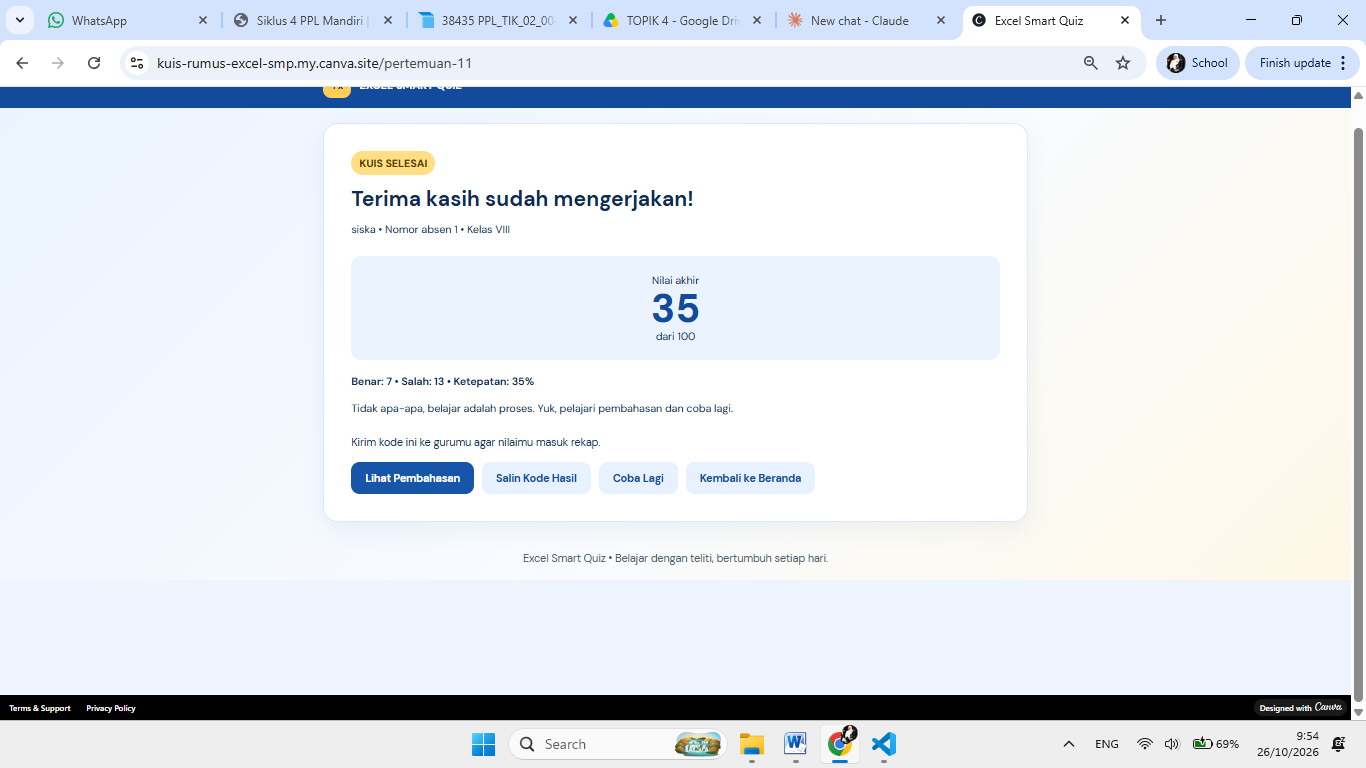
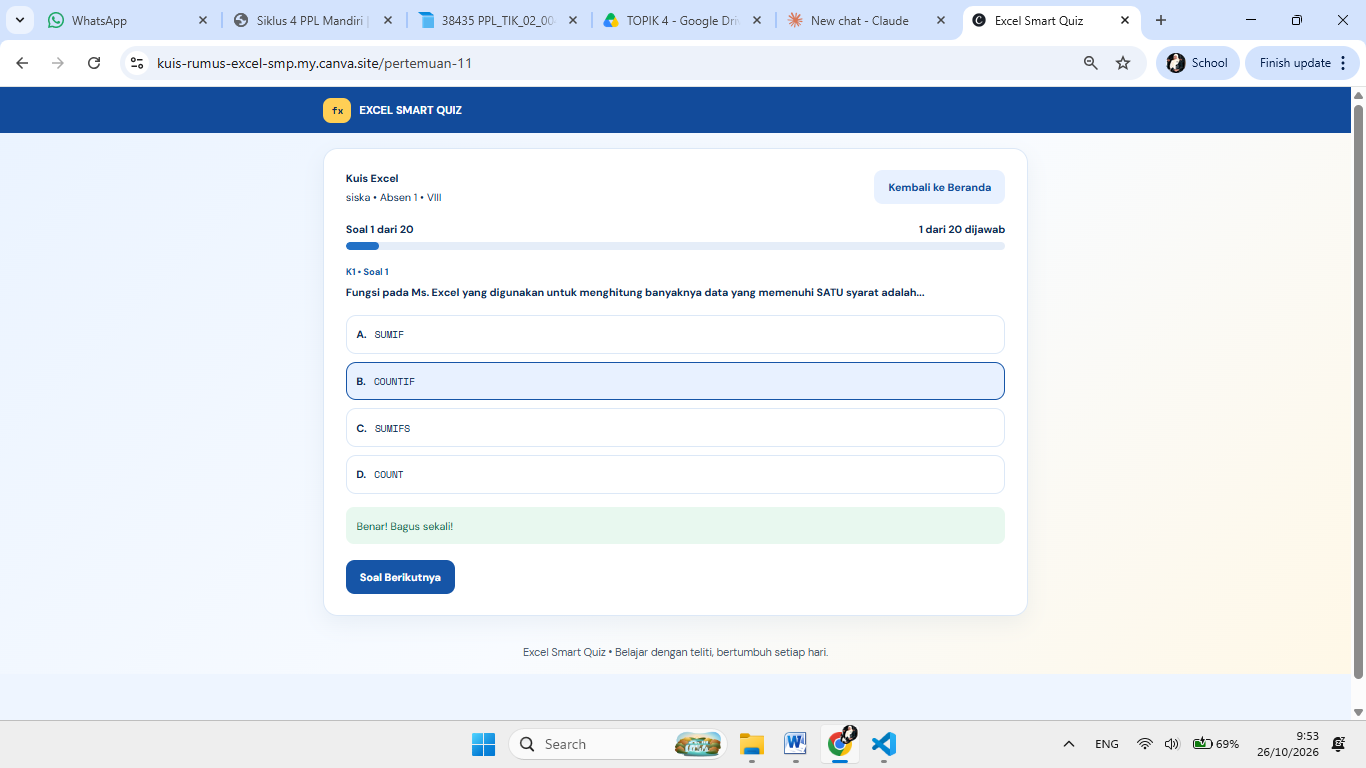
rev 27 okt

diff --git a/inovasi-pembelajaran.html b/inovasi-pembelajaran.html
@@ -6,9 +6,9 @@
     <meta name="viewport" content="width=device-width, initial-scale=1.0">
     <meta
         name="description"
-        content="Inovasi pembelajaran Excel Smart Quiz karya Siska Yulia Rahmawati untuk pembelajaran Informatika kelas VIII.">
+        content="Inovasi pembelajaran Excel Smart Quiz (Kuis Interaktif Excel Berbasis Canva Site Terintegrasi AI) karya Siska Yulia Rahmawati untuk pembelajaran Informatika kelas VIII.">
     <meta name="author" content="Siska Yulia Rahmawati">
-    <title>Inovasi Pembelajaran | Excel Smart Quiz</title>
+    <title>Inovasi Pembelajaran | Excel Smart Quiz (Kuis Interaktif Excel Berbasis Canva Site Terintegrasi AI)</title>
     <link rel="stylesheet" href="assets/css/style.css">
 </head>
 
@@ -42,8 +42,11 @@
         <div class="page-hero-content">
             <p class="eyebrow">INOVASI PEMBELAJARAN • INFORMATIKA</p>
             <h1>Excel Smart Quiz</h1>
+            <p class="hero-subtitle" style="font-size: clamp(16px, 2.2vw, 22px); font-weight: 600; color: var(--um-yellow); margin: -5px 0 15px;">
+                Kuis Interaktif Excel Berbasis Canva Site Terintegrasi AI
+            </p>
             <p>
-                Excel Smart Quiz merupakan media kuis interaktif berbantuan Canva AI yang dikembangkan melalui Canva Site untuk pembelajaran Informatika materi Microsoft Excel kelas VIII SMP. Media ini dilengkapi 20 soal pilihan ganda, umpan balik langsung, pembahasan beserta rumus Excel, fitur coba lagi, serta rekap dan analisis nilai untuk guru. Murid dapat mengerjakan kuis, memahami kesalahan, dan memperbaiki jawaban, sedangkan guru dapat memanfaatkan hasilnya untuk mengevaluasi pemahaman murid dan menentukan materi yang perlu diperkuat.
+                <strong>Excel Smart Quiz (Kuis Interaktif Excel Berbasis Canva Site Terintegrasi AI)</strong> merupakan media kuis interaktif berbantuan AI yang dikembangkan melalui Canva Site untuk pembelajaran Informatika materi Microsoft Excel kelas VIII SMP. Media ini dilengkapi 20 soal pilihan ganda, umpan balik langsung, pembahasan beserta rumus Excel, fitur coba lagi, serta rekap dan analisis nilai untuk guru. Murid dapat mengerjakan kuis, memahami kesalahan, dan memperbaiki jawaban, sedangkan guru dapat memanfaatkan hasilnya untuk mengevaluasi pemahaman murid dan menentukan materi yang perlu diperkuat.
             </p>
             <div class="innovation-hero-tags" aria-label="Ringkasan inovasi">
                 <span>🧑🎓 Sasaran: Murid Kelas VIII SMP</span>
@@ -66,14 +69,21 @@
             <div class="innovation-identity-heading">
                 <span class="semester-icon" aria-hidden="true">📋</span>
                 <div>
-                    <p class="eyebrow">IDENTITAS INOVASI</p>
+                    <p class="eyebrow">IDENTITAS INOVASI • LK 4</p>
                     <h3>Excel Smart Quiz</h3>
+                    <p style="color: var(--text-soft); font-size: 15px; margin: 4px 0 0; font-weight: 600;">
+                        Kuis Interaktif Excel Berbasis Canva Site Terintegrasi AI
+                    </p>
                 </div>
             </div>
             <dl class="innovation-identity-list">
                 <div>
+                    <dt>Nama karya</dt>
+                    <dd><strong>Excel Smart Quiz</strong> (Kuis Interaktif Excel Berbasis Canva Site Terintegrasi AI)</dd>
+                </div>
+                <div>
                     <dt>Bentuk karya</dt>
-                    <dd>Media pembelajaran interaktif berbentuk kuis online (Canva Site terintegrasi AI)</dd>
+                    <dd>Media pembelajaran interaktif berbentuk kuis online</dd>
                 </div>
                 <div>
                     <dt>Sasaran</dt>
@@ -89,13 +99,13 @@
                 </div>
                 <div>
                     <dt>Pengembangan</dt>
-                    <dd>Canva AI dan Canva Site</dd>
+                    <dd>Canva Site terintegrasi AI (prompt engineering)</dd>
                 </div>
                 <div>
                     <dt>Materi pokok</dt>
                     <dd>
-                        Kuis Excel untuk materi SUMIF, SUMIFS, COUNTIF, dan
-                        COUNTIFS yang dipelajari saat itu
+                        Fungsi bersyarat Excel: COUNTIF, SUMIF, COUNTIFS, dan
+                        SUMIFS
                     </dd>
                 </div>
             </dl>
@@ -181,7 +191,8 @@
                 <p>
                     Untuk menjawab tantangan fokus dan keterlibatan murid,
                     dikembangkan media kuis interaktif berbasis Canva Site yang
-                    terintegrasi AI dengan nama <strong>Excel Smart Quiz</strong>
+                    terintegrasi AI dengan nama <strong>Excel Smart Quiz
+                    (Kuis Interaktif Excel Berbasis Canva Site Terintegrasi AI)</strong>
                     pada materi fungsi bersyarat Microsoft Excel (COUNTIF, SUMIF,
                     COUNTIFS, dan SUMIFS).
                 </p>
@@ -276,9 +287,9 @@
                     </li>
                     <li>
                         <strong>Keefektivan awal:</strong> pada uji coba setelah penyempurnaan media,
-                        terhadap 30 murid, rata-rata nilai mencapai 66,8 (skor
+                        terhadap 29 murid, rata-rata nilai mencapai 67,9 (skor
                         tertinggi 100, terendah 35). Dengan KKM 75, sebanyak 14
-                        murid tuntas dan 16 belum tuntas. Sebagai langkah ilmiah
+                        murid tuntas dan 15 belum tuntas. Sebagai langkah ilmiah
                         yang objektif, data ini belum disimpulkan secara sepihak
                         sebagai peningkatan hasil belajar karena belum ada kelas
                         pembanding.
@@ -334,7 +345,7 @@
                                 <th scope="row">5</th>
                                 <td>Efektivitas berbasis bukti</td>
                                 <td>Keberhasilan diuji melalui evaluasi hasil, proses, atau respons pengguna.</td>
-                                <td>Uji coba 30 murid memberi data awal; peningkatan hasil belajar masih perlu dibuktikan lewat evaluasi lanjutan.</td>
+                                <td>Uji coba 29 murid memberi data awal; peningkatan hasil belajar masih perlu dibuktikan lewat evaluasi lanjutan.</td>
                             </tr>
                         </tbody>
                     </table>
@@ -476,7 +487,7 @@
                     "kode hasil" terenkripsi sederhana yang disalin oleh murid.
                     Pendekatan ini sangat efektif menjaga kecepatan akses di lab
                     komputer dan tidak membebani murid dengan proses pembuatan
-                    akun baru. Sejauh ini, kuis telah diselesaikan oleh 30 murid.
+                    akun baru. Sejauh ini, kuis telah diselesaikan oleh 29 murid.
                 </p>
                 <h3>Rancangan Tindak Lanjut Penerapan</h3>
                 <ol>
@@ -651,10 +662,9 @@
                         <span class="artifact-icon" aria-hidden="true">🧮</span>
                         <h3>Media Excel Smart Quiz</h3>
                         <p>
-                            Media latihan interaktif Excel dengan umpan balik,
-                            pembahasan, dan rekap hasil belajar. Versi yang
-                            disempurnakan berfokus pada fungsi Excel yang
-                            dipelajari saat itu.
+                            Kuis interaktif Excel berbasis Canva Site terintegrasi
+                            AI dengan umpan balik langsung, pembahasan rumus, dan
+                            rekap hasil belajar murid.
                         </p>
                     </div>
                     <a
@@ -709,48 +719,48 @@
                         <figcaption>Halaman utama Excel Smart Quiz</figcaption>
                     </figure>
                     <figure class="infinite-gallery-item innovation-screenshot-item">
-                        <img src="assets/images/inovasi/identitas-murid.png" alt="Formulir identitas murid sebelum mengerjakan kuis">
+                        <img src="assets/images/inovasi/identitas-siswa.png" alt="Formulir identitas murid sebelum mengerjakan kuis">
                         <figcaption>Identitas murid</figcaption>
                     </figure>
                     <figure class="infinite-gallery-item innovation-screenshot-item">
-                        <img src="assets/images/inovasi/kuis-mulai.png" alt="Tampilan kuis Excel interaktif">
-                        <figcaption>Tampilan kuis interaktif</figcaption>
-                    </figure>
-                    <figure class="infinite-gallery-item innovation-screenshot-item">
-                        <img src="assets/images/inovasi/contoh-soal-sumif.png" alt="Contoh soal fungsi SUMIF pada kuis">
-                        <figcaption>Contoh soal fungsi SUMIF</figcaption>
-                    </figure>
-                    <figure class="infinite-gallery-item innovation-screenshot-item">
-                        <img src="assets/images/inovasi/contoh-soal-countif.png" alt="Contoh soal fungsi COUNTIF pada kuis">
+                        <img src="assets/images/inovasi/kuis-mulai.png" alt="Contoh soal fungsi COUNTIF dengan umpan balik langsung">
                         <figcaption>Contoh soal fungsi COUNTIF</figcaption>
                     </figure>
                     <figure class="infinite-gallery-item innovation-screenshot-item">
-                        <img src="assets/images/inovasi/hasil-kuis.png" alt="Halaman hasil kuis dan kode hasil murid">
-                        <figcaption>Hasil kuis murid</figcaption>
+                        <img src="assets/images/inovasi/contoh-soal-sumif.png" alt="Contoh soal fungsi SUMIF dengan petunjuk umpan balik">
+                        <figcaption>Contoh soal fungsi SUMIF</figcaption>
                     </figure>
                     <figure class="infinite-gallery-item innovation-screenshot-item">
-                        <img src="assets/images/inovasi/pembahasan-soal.png" alt="Pembahasan dan rumus jawaban soal">
-                        <figcaption>Pembahasan soal</figcaption>
+                        <img src="assets/images/inovasi/rekap-guru.png" alt="Soal studi kasus tabel data peminjaman buku fungsi COUNTIFS">
+                        <figcaption>Soal kasus peminjaman buku</figcaption>
                     </figure>
                     <figure class="infinite-gallery-item innovation-screenshot-item">
-                        <img src="assets/images/inovasi/rekap-guru.png" alt="Halaman rekap nilai guru">
-                        <figcaption>Rekap nilai guru</figcaption>
+                        <img src="assets/images/inovasi/skor-akhir-kuis.png" alt="Tampilan skor nilai akhir kuis murid">
+                        <figcaption>Nilai akhir kuis</figcaption>
                     </figure>
                     <figure class="infinite-gallery-item innovation-screenshot-item">
-                        <img src="assets/images/inovasi/akses-rekap-guru.png" alt="Formulir PIN untuk membuka rekap guru">
-                        <figcaption>Akses rekap guru</figcaption>
+                        <img src="assets/images/inovasi/hasil-kuis.png" alt="Halaman hasil kuis dan salin kode hasil murid">
+                        <figcaption>Kode hasil kuis</figcaption>
                     </figure>
                     <figure class="infinite-gallery-item innovation-screenshot-item">
-                        <img src="assets/images/inovasi/dashboard-nilai.png" alt="Dashboard ringkasan hasil dan nilai murid">
-                        <figcaption>Dashboard hasil kuis</figcaption>
+                        <img src="assets/images/inovasi/pembahasan-soal.png" alt="Halaman pembahasan soal dan penjelasan rumus Excel">
+                        <figcaption>Pembahasan soal &amp; rumus</figcaption>
                     </figure>
                     <figure class="infinite-gallery-item innovation-screenshot-item">
-                        <img src="assets/images/inovasi/analisis-jawaban.png" alt="Analisis hasil jawaban murid per soal">
-                        <figcaption>Analisis jawaban murid</figcaption>
+                        <img src="assets/images/inovasi/akses-rekap-guru.png" alt="Formulir PIN untuk membuka akses rekap nilai guru">
+                        <figcaption>Akses rekap guru (PIN)</figcaption>
                     </figure>
                     <figure class="infinite-gallery-item innovation-screenshot-item">
-                        <img src="assets/images/inovasi/persentase-soal.png" alt="Persentase jawaban benar untuk setiap soal">
-                        <figcaption>Persentase jawaban benar</figcaption>
+                        <img src="assets/images/inovasi/dashboard-nilai.png" alt="Dashboard rekap nilai dan daftar hasil murid">
+                        <figcaption>Dashboard rekap nilai guru</figcaption>
+                    </figure>
+                    <figure class="infinite-gallery-item innovation-screenshot-item">
+                        <img src="assets/images/inovasi/analisis-jawaban.png" alt="Formulir impor kode hasil dan analisis butir soal">
+                        <figcaption>Impor kode &amp; analisis butir</figcaption>
+                    </figure>
+                    <figure class="infinite-gallery-item innovation-screenshot-item">
+                        <img src="assets/images/inovasi/persentase-soal.png" alt="Persentase jawaban benar dan penguasaan kelompok kompetensi">
+                        <figcaption>Persentase jawaban &amp; kompetensi</figcaption>
                     </figure>
                 </div>
 
@@ -760,48 +770,48 @@
                         <figcaption>Halaman utama Excel Smart Quiz</figcaption>
                     </figure>
                     <figure class="infinite-gallery-item innovation-screenshot-item">
-                        <img src="assets/images/inovasi/identitas-murid.png" alt="">
+                        <img src="assets/images/inovasi/identitas-siswa.png" alt="">
                         <figcaption>Identitas murid</figcaption>
                     </figure>
                     <figure class="infinite-gallery-item innovation-screenshot-item">
                         <img src="assets/images/inovasi/kuis-mulai.png" alt="">
-                        <figcaption>Tampilan kuis interaktif</figcaption>
+                        <figcaption>Contoh soal fungsi COUNTIF</figcaption>
                     </figure>
                     <figure class="infinite-gallery-item innovation-screenshot-item">
                         <img src="assets/images/inovasi/contoh-soal-sumif.png" alt="">
                         <figcaption>Contoh soal fungsi SUMIF</figcaption>
                     </figure>
                     <figure class="infinite-gallery-item innovation-screenshot-item">
-                        <img src="assets/images/inovasi/contoh-soal-countif.png" alt="">
-                        <figcaption>Contoh soal fungsi COUNTIF</figcaption>
+                        <img src="assets/images/inovasi/rekap-guru.png" alt="">
+                        <figcaption>Soal kasus peminjaman buku</figcaption>
+                    </figure>
+                    <figure class="infinite-gallery-item innovation-screenshot-item">
+                        <img src="assets/images/inovasi/skor-akhir-kuis.png" alt="">
+                        <figcaption>Nilai akhir kuis</figcaption>
                     </figure>
                     <figure class="infinite-gallery-item innovation-screenshot-item">
                         <img src="assets/images/inovasi/hasil-kuis.png" alt="">
-                        <figcaption>Hasil kuis murid</figcaption>
+                        <figcaption>Kode hasil kuis</figcaption>
                     </figure>
                     <figure class="infinite-gallery-item innovation-screenshot-item">
                         <img src="assets/images/inovasi/pembahasan-soal.png" alt="">
-                        <figcaption>Pembahasan soal</figcaption>
-                    </figure>
-                    <figure class="infinite-gallery-item innovation-screenshot-item">
-                        <img src="assets/images/inovasi/rekap-guru.png" alt="">
-                        <figcaption>Rekap nilai guru</figcaption>
+                        <figcaption>Pembahasan soal &amp; rumus</figcaption>
                     </figure>
                     <figure class="infinite-gallery-item innovation-screenshot-item">
                         <img src="assets/images/inovasi/akses-rekap-guru.png" alt="">
-                        <figcaption>Akses rekap guru</figcaption>
+                        <figcaption>Akses rekap guru (PIN)</figcaption>
                     </figure>
                     <figure class="infinite-gallery-item innovation-screenshot-item">
                         <img src="assets/images/inovasi/dashboard-nilai.png" alt="">
-                        <figcaption>Dashboard hasil kuis</figcaption>
+                        <figcaption>Dashboard rekap nilai guru</figcaption>
                     </figure>
                     <figure class="infinite-gallery-item innovation-screenshot-item">
                         <img src="assets/images/inovasi/analisis-jawaban.png" alt="">
-                        <figcaption>Analisis jawaban murid</figcaption>
+                        <figcaption>Impor kode &amp; analisis butir</figcaption>
                     </figure>
                     <figure class="infinite-gallery-item innovation-screenshot-item">
                         <img src="assets/images/inovasi/persentase-soal.png" alt="">
-                        <figcaption>Persentase jawaban benar</figcaption>
+                        <figcaption>Persentase jawaban &amp; kompetensi</figcaption>
                     </figure>
                 </div>
             </div>
